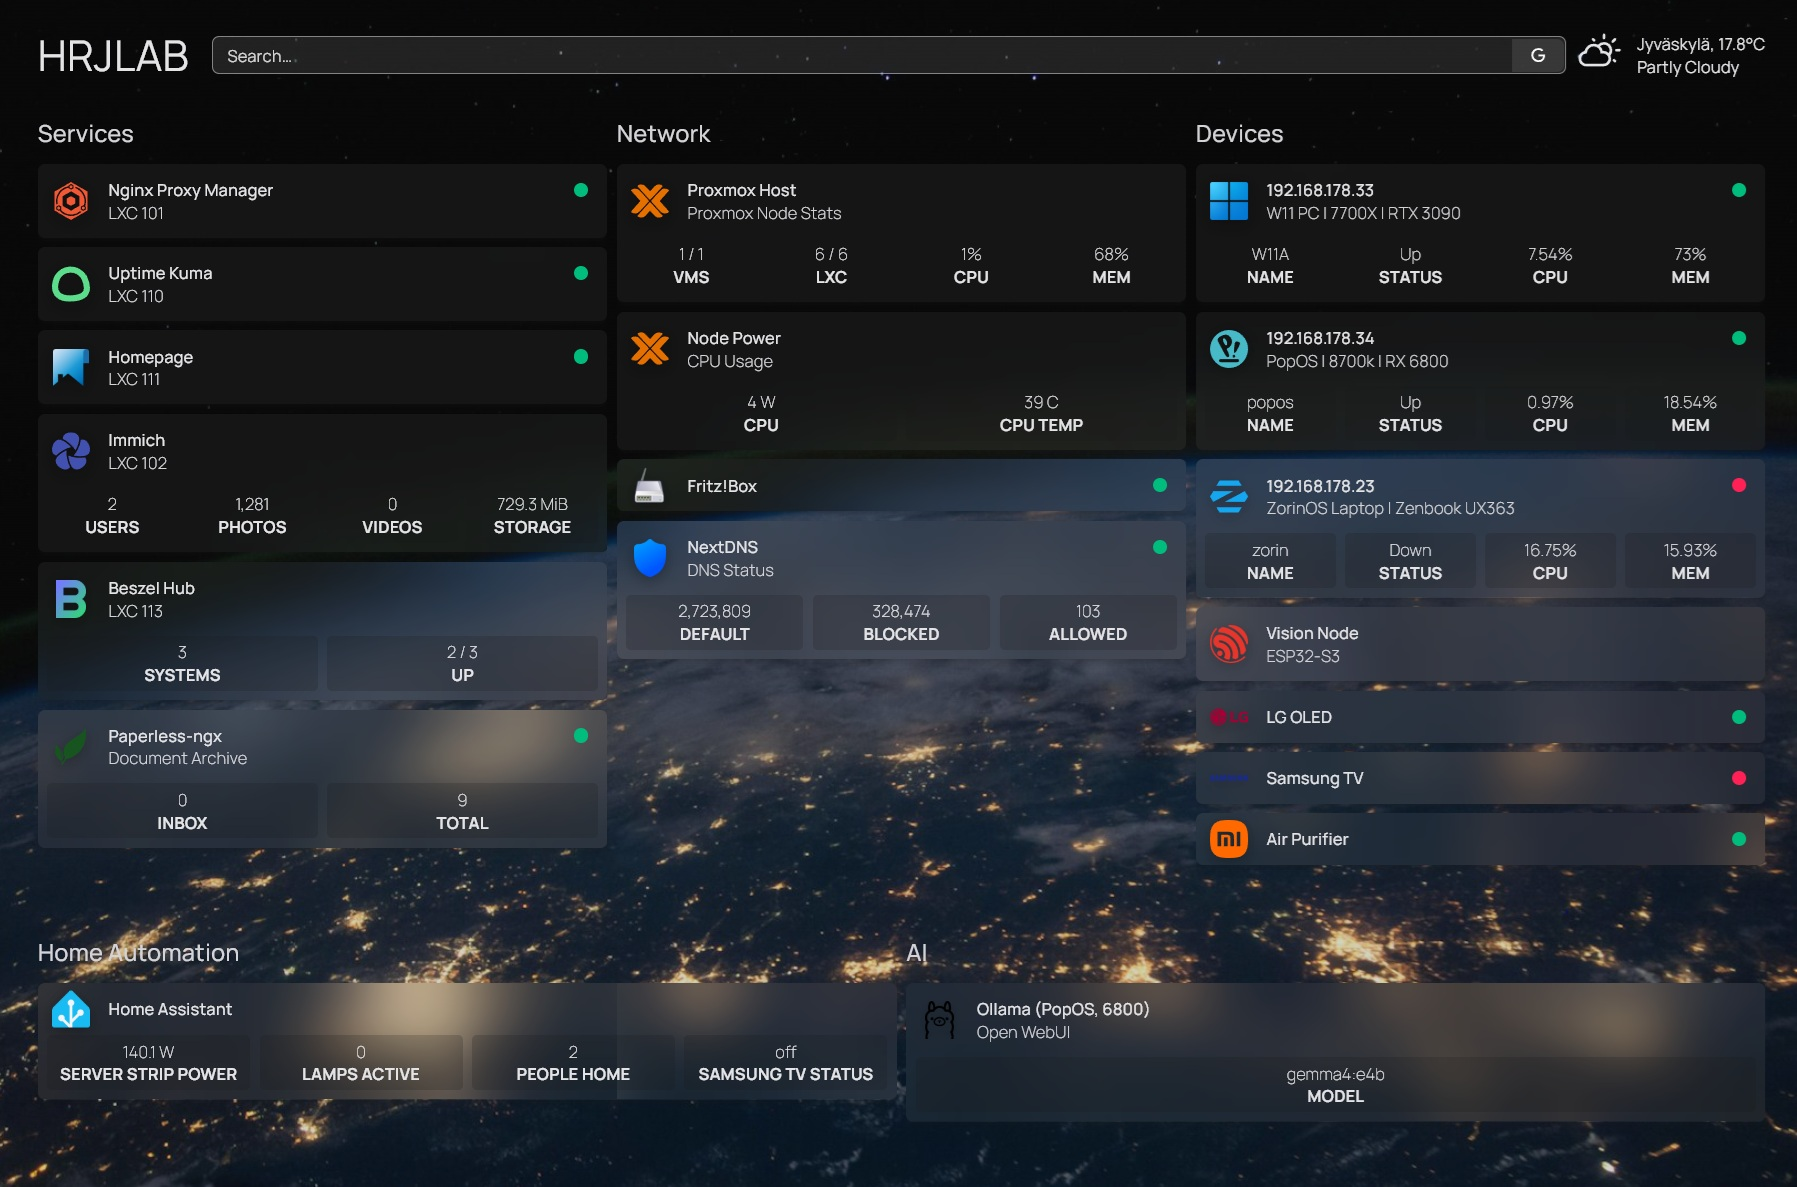
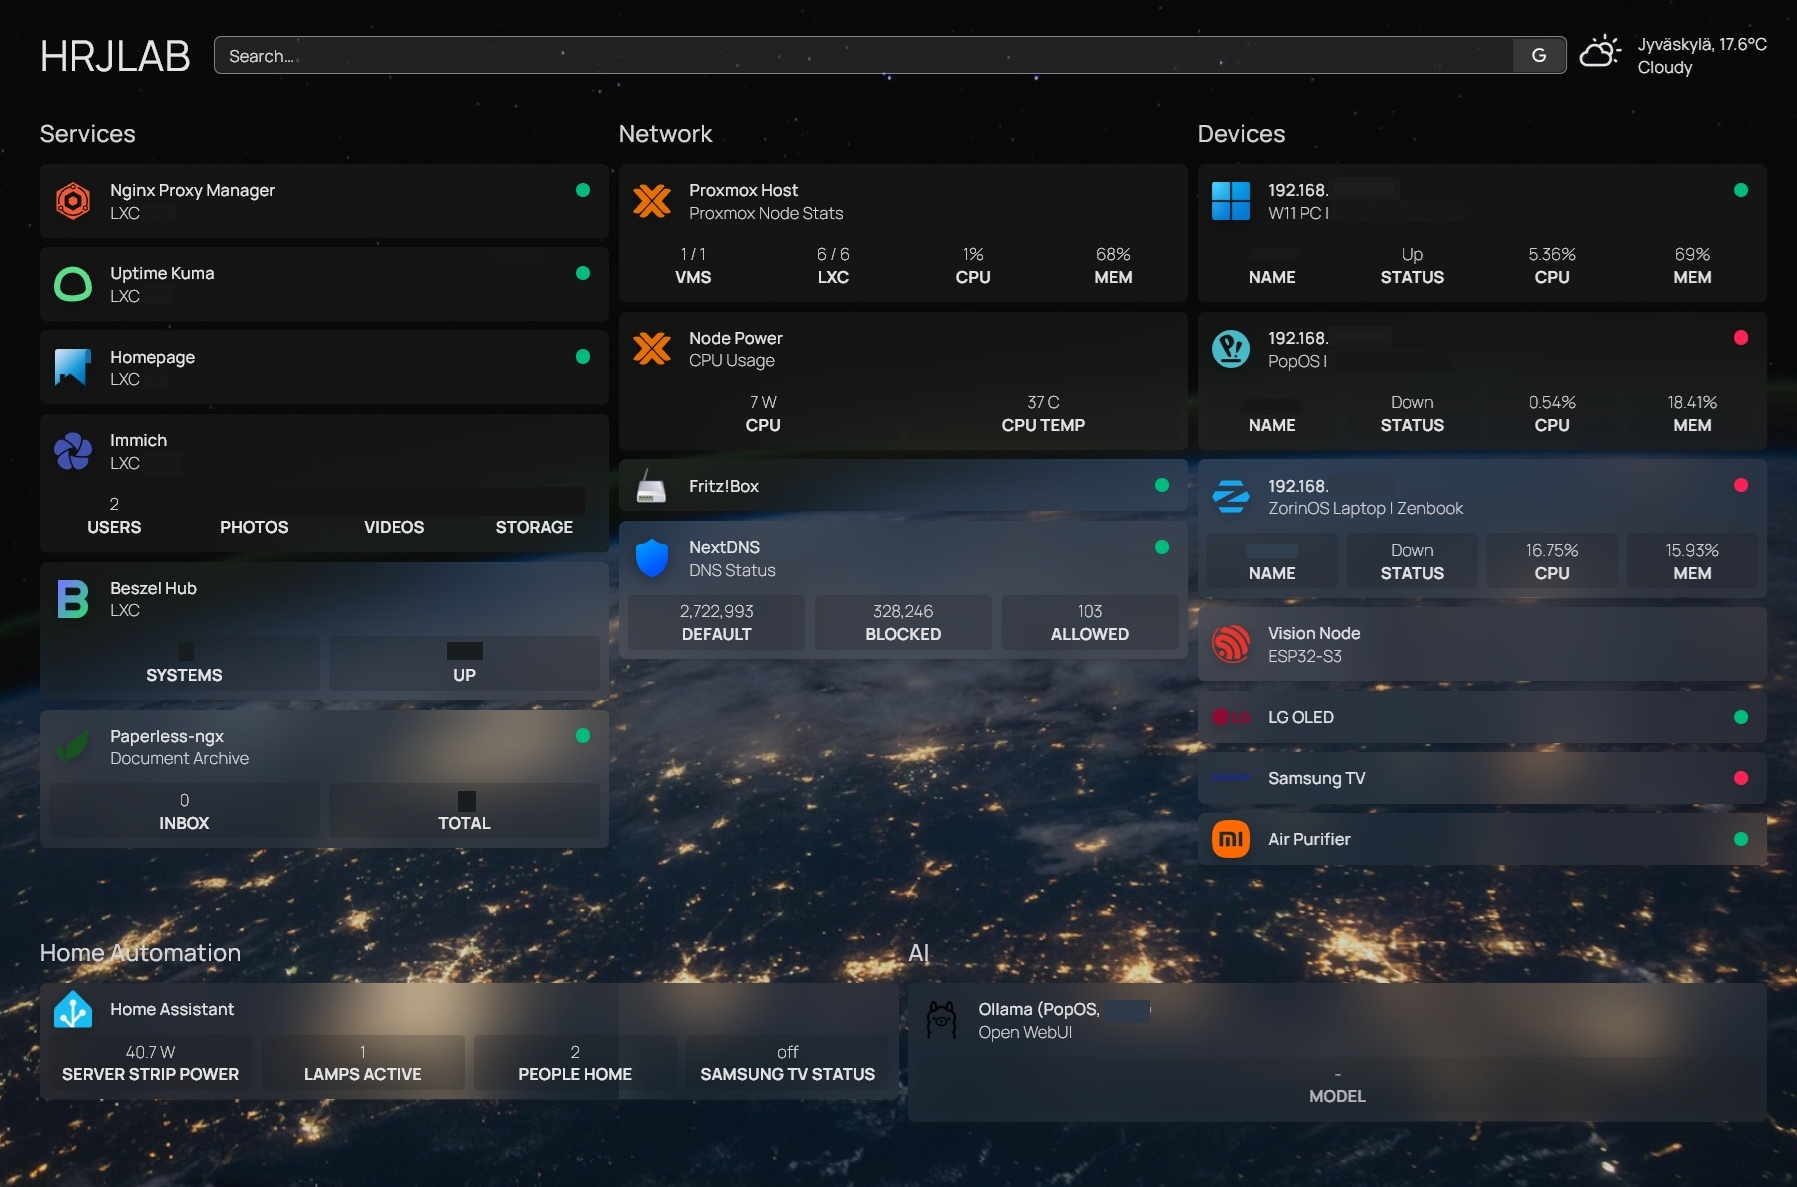
Sanitize public infrastructure overview

diff --git a/README.md b/README.md
@@ -12,7 +12,7 @@ The main design choice is separation of concerns. Core services stay on the Prox
 
 ![Homelab architecture](assets/architecture.svg)
 
-The WTR Pro runs Proxmox VE and hosts the main services as LXC containers together with Home Assistant and Frigate. Storage is a two-disk ZFS mirror on Samsung 870 QVO SSDs. The home LAN is provided by Fritz!Box and NextDNS, and management stays on the internal network.
+The Proxmox host runs Proxmox VE and hosts the main services as LXC containers together with Home Assistant and Frigate. Storage is a two-disk ZFS mirror on Samsung 870 QVO SSDs. The home LAN is provided by Fritz!Box and NextDNS, and management stays on the internal network.
 
 The separate Pop!_OS media PC serves Gemma 4 through Ollama, Open WebUI, and SearXNG on the LAN. This keeps local AI workloads off the Proxmox host while still making them available across the home network.
 
@@ -26,7 +26,7 @@ The Windows 11 workstation serves as the maintainer console. It uses WSL2 for th
 
 ## Core Services
 
-The Proxmox host runs Nginx Proxy Manager, Immich, Paperless-ngx, Uptime Kuma, Homepage, and Beszel in LXC containers. Home Assistant runs as VM 150, and Frigate covers the camera and automation side of the stack. The storage layer is a ZFS mirror on two Samsung 870 QVO drives.
+The Proxmox host runs Nginx Proxy Manager, Immich, Paperless-ngx, Uptime Kuma, Homepage, and Beszel in LXC containers. Home Assistant runs as a virtual machine, and Frigate covers the camera and automation side of the stack. The storage layer is a ZFS mirror on two Samsung 870 QVO drives.
 
 The separate Pop!_OS system serves Gemma 4 through Ollama, with Open WebUI and SearXNG as the user-facing layer and search backend.
 
